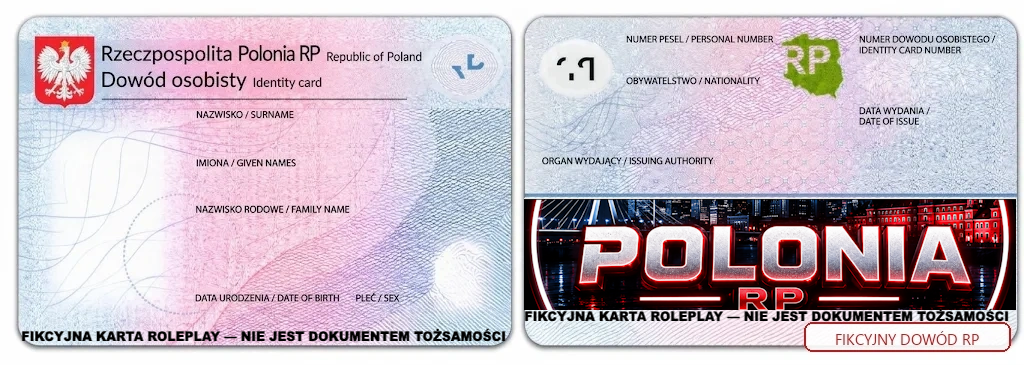
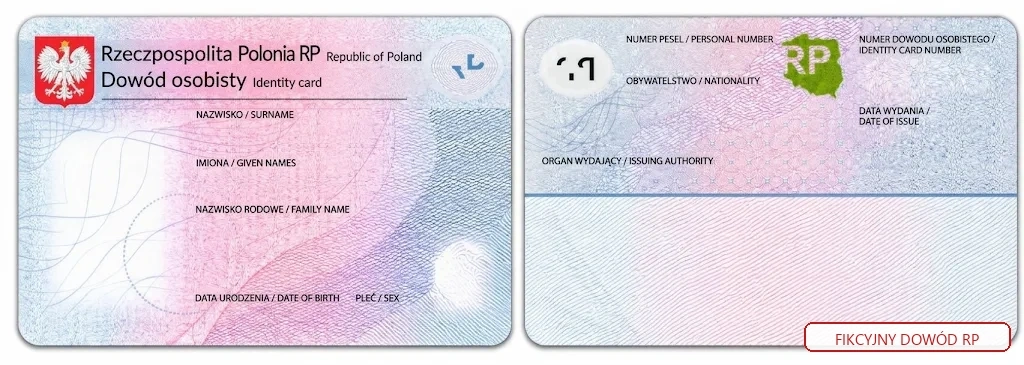
Clean up fictional ID card output

Changed region(s): [[0.5, 0.5425, 1.0, 0.9041], [0.0, 0.9041, 0.5, 0.9342]]

diff --git a/src/fictional-rp-card.js b/src/fictional-rp-card.js
@@ -31,12 +31,12 @@ async function createFictionalRpCardImage({
   // Fit the Roblox avatar into the open portrait area beside the name fields.
   context.save();
   context.beginPath();
-  context.arc(127, 198, 52, 0, Math.PI * 2);
+  context.arc(127, 198, 64, 0, Math.PI * 2);
   context.clip();
-  context.drawImage(avatar, 75, 146, 104, 104);
+  context.drawImage(avatar, 63, 134, 128, 128);
   context.restore();
   context.beginPath();
-  context.arc(127, 198, 52, 0, Math.PI * 2);
+  context.arc(127, 198, 64, 0, Math.PI * 2);
   context.strokeStyle = "rgba(255,255,255,0.9)";
   context.lineWidth = 3;
   context.stroke();

diff --git a/src/index.js b/src/index.js
@@ -5672,10 +5672,6 @@ async function handleModal(interaction) {
       files: [attachment],
       allowedMentions: { parse: [], users: [interaction.user.id] },
     });
-    await destination.send({
-      content: "-# FIKCYJNA KARTA ROLEPLAY — NIE JEST DOKUMENTEM TOŻSAMOŚCI",
-      allowedMentions: { parse: [] },
-    });
     idCardDrafts.delete(draftKey);
     await updateWebhookConfig(interaction.guildId, { idCardChannelId: destination.id });
     await interaction.editReply({ content: `Fikcyjna karta RP została wysłana na kanał ${destination}.` });
